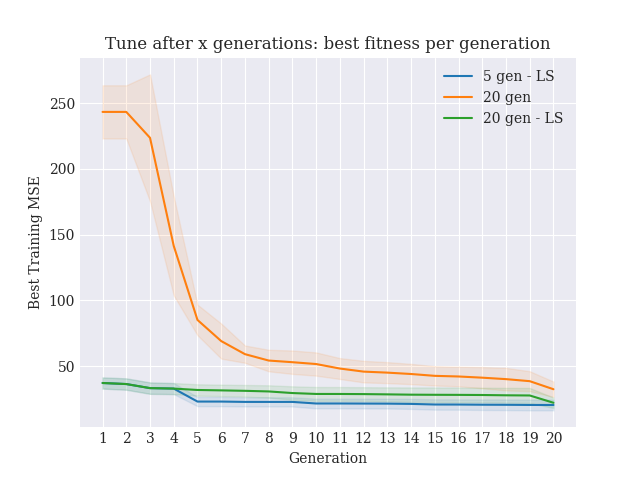
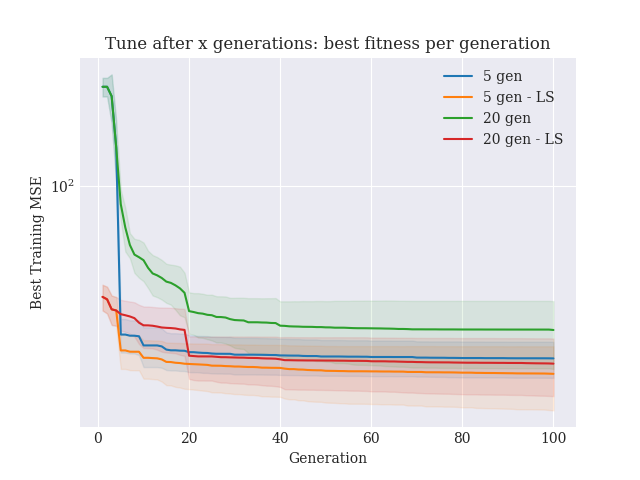
finished plots for some gens runs

diff --git a/plots/plot_some_gen.py b/plots/plot_some_gen.py
@@ -11,28 +11,27 @@ matplotlib.rcParams['font.family'] = "serif"
 
 # Global settings of the experiments
 runs = 10
-gens = 20
+gens = 100
 pop_size = 100
 logs = [
-    # TODO: add data from log below when finished
-    # ("../log/log_tune_5_gen.txt", "5 gen"),
-    ("../log/log_tune_5_gen_ls.txt", "5 gen - LS"),
-    ("../log/log_tune_20_gen.txt", "20 gen"),
-    ("../log/log_tune_20_gen_ls.txt", "20 gen - LS"),
+    ("../log/log_tune_5_gen_max_gen_100.txt", "5 gen"),
+    ("../log/log_tune_5_gen_ls_max_gen_100.txt", "5 gen - LS"),
+    ("../log/log_tune_20_gen_max_gen_100.txt", "20 gen"),
+    ("../log/log_tune_20_gen_ls_max_gen_100.txt", "20 gen - LS"),
 ]
 
 data = extract_all_data(logs, runs=runs, gens=gens, pop_size=pop_size)
 x = np.arange(1, gens + 1, 1)
 
-#%%
+# %%
 # Plot best fitness per generation
 palette = plt.get_cmap('tab10')
 
 plt.figure()
 plt.xlabel("Generation")
 plt.ylabel("Best Training MSE")
-plt.xticks(x)
 plt.title("Tune after x generations: best fitness per generation")
+plt.yscale("log")
 
 color = 0
 for w in data.keys():
@@ -47,7 +46,7 @@ plt.legend()
 plt.savefig("../images/tune_gen_fitness")
 plt.show()
 
-#%%
+# %%
 
 palette = plt.get_cmap('tab10')
 
@@ -76,50 +75,102 @@ plt.show()
 
 # Plots for 5gens tuning and 20gens tuning can better be seperated...
 
-gens5 = ['5 gen - LS']
-x_gens5 = [4, 9, 14, 19]
-gens20 = ['20 gen', '20 gen - LS']
-x_gens20 = [19]
+x_gens5 = list(range(4, 100, 5))
+x_gens20 = list(range(19, 100, 20))
 
 palette = plt.get_cmap('tab20')
 color = 0
 
 
-def plot_gen_diff(x, keys, name, color):
-    # Plot the average improvement with weight tuning
+def get_before(key):
+    _, _, before, _ = data[key]
+    m_before, std_before = avg_over_runs(before)
+
+    y = m_before[m_before > 0]
+    std = std_before[std_before > 0]
+
+    return y, std
+
+
+def get_after(key):
+    _, _, _, after = data[key]
+    m_after, std_after = avg_over_runs(after)
+
+    y = m_after[m_after > 0]
+    std = std_after[std_after > 0]
+
+    return y, std
+
+
+# %% Plot average fitness before
+
+def plot_before(keys, tune_gens, name):
     plt.figure()
     plt.xlabel("Generation")
     plt.ylabel("Training MSE")
-    plt.xticks(x)
-    plt.title("Weight Tuning: fitness before and after tuning")
+    plt.title("Tune after x generations: average fitness before")
+    plt.yscale("log")
 
-    # plt.xlim([1, 20])
-    # plt.ylim([0, 1500])
 
-    for w in keys:
-        _, _, before, after = data[w]
+    palette = plt.get_cmap('tab10')
 
-        # Mask zeros values
-        before = before[before > 0]
-        after = after[after > 0]
-        print(before.shape)
+    color = 0
 
-        m_before, std_before = avg_over_runs(before)
+    for k, gens in zip(keys, tune_gens):
+        y_before, std_before = get_before(k)
 
-        m_after, std_after = avg_over_runs(after)
+        x = np.arange(len(gens))
 
-        plt.plot(x, m_before, color=palette(color), label=f"Before -{w}")
-        # plt.fill_between(x, m_before + std_before, m_before - std_before, color=palette(color), alpha=0.1)
+        plt.plot(x, y_before, color=palette(color), label=f"{k}")
+        plt.fill_between(x, y_before + std_before, y_before - std_before, color=palette(color), alpha=0.1)
 
-        plt.plot(x, m_after, color=palette(color + 1), label=f"After -{w}")
-        # plt.fill_between(x, m_after + std_after, m_after - std_after, color=palette(color + 1), alpha=0.1)
+        plt.xticks(x, gens)
 
-        color += 2
+        color += 1
 
+    # Log scale so log(1) = 0
+    plt.ylim([1, plt.ylim()[1]])
     plt.legend()
-    plt.savefig(f"../images/tune_gen_{name}")
+    plt.savefig(f"../images/{name}")
     plt.show()
 
-plot_gen_diff(x_gens5, gens5, "gens5", 0)
-plot_gen_diff(x_gens20, gens20, "gens20", 2)
 
+## Seperate plots of 20 gens and 5 gens
+plot_before(['5 gen', '5 gen - LS'], list([x_gens5, x_gens5]), "tune_5_gen_before")
+plot_before(['20 gen', '20 gen - LS'], list([x_gens20, x_gens20]), "tune_20_gen_before")
+
+
+# %% Plot after fitness after tuning
+
+
+def plot_after(keys, tune_gens, name):
+    plt.figure()
+    plt.xlabel("Generation")
+    plt.ylabel("Training MSE")
+    plt.title("Tune after x generations: average fitness after")
+
+    palette = plt.get_cmap('tab10')
+
+    color = 0
+
+    for k, gens in zip(keys, tune_gens):
+        y_after, std_after = get_after(k)
+
+        x = np.arange(len(gens))
+
+        plt.plot(x, y_after, color=palette(color), label=f"{k}")
+        plt.fill_between(x, y_after + std_after, y_after - std_after, color=palette(color), alpha=0.1)
+
+        plt.xticks(x, gens)
+
+        color += 1
+
+    plt.ylim([0, plt.ylim()[1]])
+    plt.legend()
+    plt.savefig(f"../images/{name}")
+    plt.show()
+
+
+## Seperate plots of 20 gens and 5 gens
+plot_after(['5 gen', '5 gen - LS'], list([x_gens5, x_gens5]), "tune_5_gen_after")
+plot_after(['20 gen', '20 gen - LS'], list([x_gens20, x_gens20]), "tune_20_gen_after")
